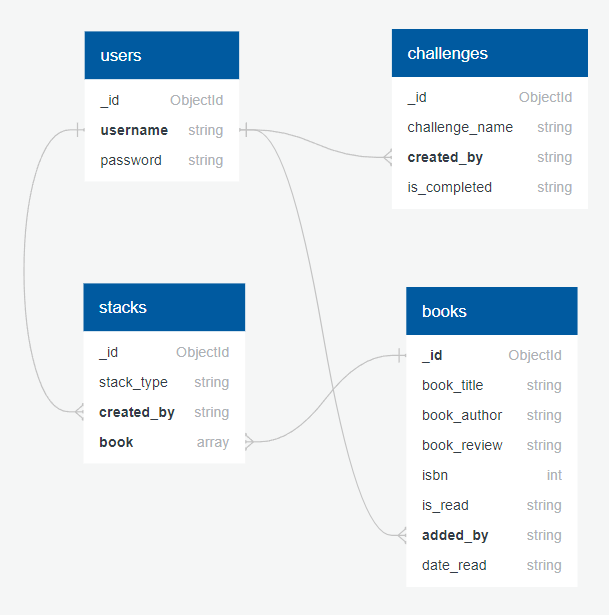
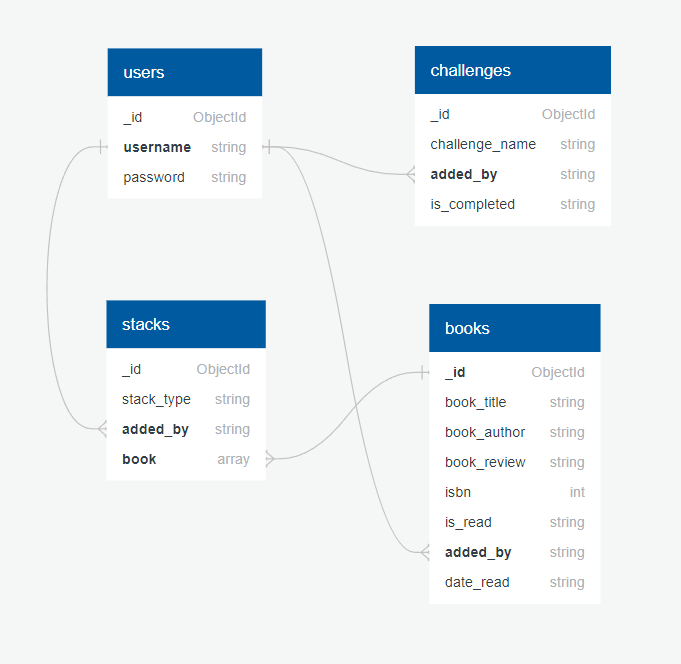
fix: Update incorrect document object names

diff --git a/README.md b/README.md
@@ -15,6 +15,12 @@
 - I want to see what other users are saying about books I've read or want to read. 
 - I want to challenge myself to read more books.
 
+## Structure
+
+### Physical database model
+
+!()[]
+
 ## Technologies Used
 
 ### Languages
